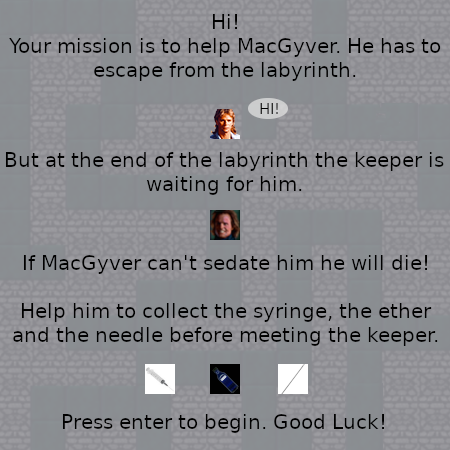
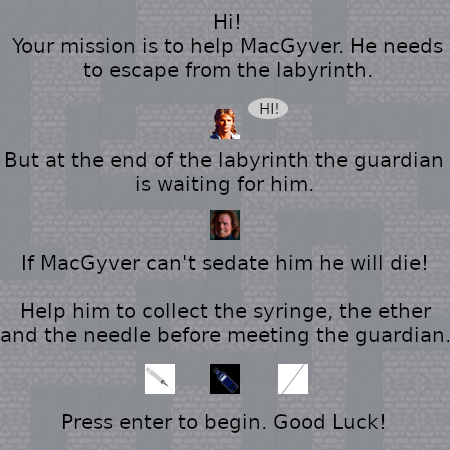
changes on README and some vocabulary

diff --git a/classes.py b/classes.py
@@ -27,7 +27,7 @@ class Map:
     def afficher(self, screen):
         """Display map with the list return by create()"""
         path = pygame.image.load(constants.PATH_IMG).convert()
-        keeper = pygame.image.load(constants.KEEPER_IMG).convert()
+        guardian = pygame.image.load(constants.GUARDIAN_IMG).convert()
         wall = pygame.image.load(constants.WALL_IMG).convert()
 
         num_line = 0
@@ -39,7 +39,7 @@ class Map:
                 if sprite == "m":
                     screen.blit(wall, (x, y))
                 elif sprite == "a":
-                    screen.blit(keeper, (x, y))
+                    screen.blit(guardian, (x, y))
                 elif sprite == "o" or "d":
                     screen.blit(path, (x, y))
                 num_sprite += 1

diff --git a/constants.py b/constants.py
@@ -8,13 +8,13 @@ SCREEN_SIDE = MAX_SPRITES_SIZE * SPRITE_SIZE
 TITLE = "MacGyver"
 
 #Images
-PATH_IMG = "images/fond.png"
-WALL_IMG = "images/mur.png"
+PATH_IMG = "images/path.png"
+WALL_IMG = "images/wall.png"
 MACGYVER_IMG = "images/MacGyver.png"
-KEEPER_IMG = "images/Gardien.png"
-NEEDLE_IMG = "images/aiguille.png"
+GUARDIAN_IMG = "images/guardian.png"
+NEEDLE_IMG = "images/needle.png"
 ETHER_IMG = "images/ether.png"
-SYRINGE_IMG = "images/seringue.png"
+SYRINGE_IMG = "images/syringe.png"
 
 MAZE_FILE = "labyrinth.txt"
 FIRST_SCREEN = "images/first_screen.png"

diff --git a/macgyver.py b/macgyver.py
@@ -126,6 +126,7 @@ while CONTINUE_PROGRAM:
                             if event.key == pygame.K_ESCAPE:
                                 CONTINUE_GAME = 0
                                 FIRST_SCREEN = 0
-                                SCREEN.fill(pygame.Color("GREY"), (0, 0, 450, 30))
+                                SCREEN.fill(pygame.Color("GREY"),
+                                            (0, 0, 450, 30))
 
                         pygame.display.flip()                        

diff --git a/README.md b/README.md
@@ -1,1 +1,11 @@
 # MacGyverLabyrinthGame
+
+## Project
+
+This labyrinth game is the first project of the OpenClassRooms course for Python.
+
+The gamer helps MacGyver to find the labyrinth way out but he needs first to collect three objects (ether, needle, syringe) to sedate the guardian. If MacGyver meets the guardian without this three objects, he'll die.
+
+## Requirement
+* Python 3x
+* Pygame
